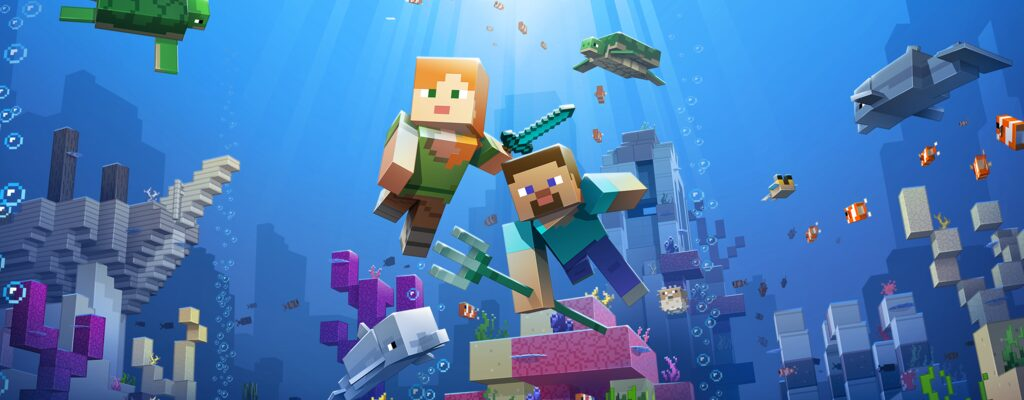
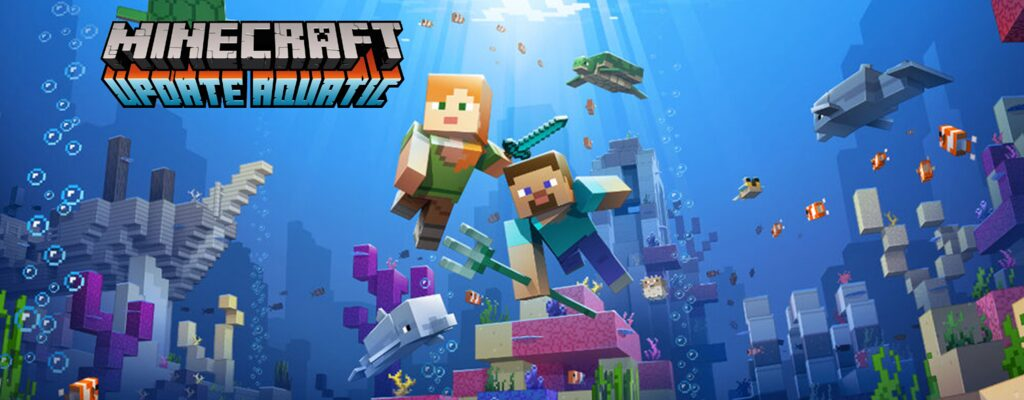
ui: đồng bộ key art 1.9–1.20 từ bộ slide, thẻ vẽ đúng tỉ lệ, trượt xuống có hoạt ảnh, nút phiên bản khối Minecraft
- 12 key art (1.9→1.20) thay bằng bộ chủ dự án cung cấp (Google Slides), chuẩn hoá 1024x400
  (2,56:1) với khung cắt chọn tay để giữ logo + nhân vật (neo giữa / neo trên); 1.10 và 1.15
  ghép logo rời lên ảnh nền; 1.12 ghép logo World of Color. CREDITS.md cập nhật nguồn.
- Thẻ dòng phiên bản trong hộp Tạo bản chơi vẽ ĐÚNG tỉ lệ 2,56:1 (trước 3,1:1 → cắt ~30 %
  chiều cao, mất logo). Bung thẻ trượt xuống với hoạt ảnh (Behavior on height + opacity),
  không nhảy phắt.
- Nút phiên bản con kiểu khối Minecraft như trang chủ: khối đá, chọn thành khối cỏ, viền tối,
  cạnh dưới dày, lún khi bấm.

765 test xanh, 0 cảnh báo QML.

Claude-Session: https://claude.ai/code/session_01LwQrjny8qCY8hQpX9dLVEW

diff --git a/src/nostalgia/ui/qml/CreateInstanceDialog.qml b/src/nostalgia/ui/qml/CreateInstanceDialog.qml
@@ -324,9 +324,12 @@ Item {
                         readonly property bool expanded: dialog.expandedMajor === modelData.major
                         readonly property var versions: expanded ? dialog.versionsOf(modelData.major) : []
                         width: ListView.view.width
-                        // Thẻ cao theo bề ngang để key art (2,56:1) không bị cắt quá nửa.
-                        readonly property int artHeight: Math.max(150, Math.min(210, Math.round(width / 3.1)))
-                        height: artHeight + (expanded ? chips.height + 12 : 0)
+                        // Thẻ vẽ ĐÚNG tỉ lệ key art 2,56:1 để không cắt mất logo hay nhân vật; các
+                        // phiên bản con trượt xuống bên dưới ảnh với hoạt ảnh, không nhảy phắt.
+                        readonly property int artHeight: Math.max(150, Math.min(300, Math.round(width / 2.56)))
+                        height: artHeight + (expanded ? chips.implicitHeight + 14 : 0)
+                        clip: true
+                        Behavior on height { NumberAnimation { duration: Theme.normal; easing.type: Easing.OutCubic } }
 
                         Rectangle {
                             id: art
@@ -368,24 +371,43 @@ Item {
                         }
                         Flow {
                             id: chips
-                            anchors { left: parent.left; right: parent.right; top: art.bottom; topMargin: 8 }
-                            spacing: 6
-                            visible: card.expanded
+                            anchors { left: parent.left; right: parent.right; top: art.bottom; topMargin: 10 }
+                            spacing: 8
+                            opacity: card.expanded ? 1 : 0
+                            enabled: card.expanded
+                            Behavior on opacity { NumberAnimation { duration: Theme.normal } }
                             Repeater {
                                 model: card.versions
-                                Rectangle {
+                                // Nút phiên bản kiểu khối Minecraft như trang chủ: khối đá, chọn thì thành khối cỏ.
+                                Item {
                                     id: versionCell
                                     readonly property bool selected: modelData.versionId === dialog.gameVersion
                                     readonly property bool supported: dialog.presetSupports(modelData.versionId)
-                                    width: Math.max(72, versionText.width + 22); height: 30; radius: 7
+                                    readonly property int edge: 3
+                                    width: Math.max(78, versionText.width + 26); height: 34
                                     opacity: supported ? 1 : 0.35
-                                    color: selected ? Theme.accentSoft : Theme.surfaceHigh
-                                    border.color: selected ? Theme.accent : Theme.border
-                                    Text { id: versionText; anchors.centerIn: parent; text: modelData.versionId
-                                           color: versionCell.selected ? Theme.accent : Theme.text
-                                           font.pixelSize: 12; font.family: "monospace" }
-                                    HoverHandler { cursorShape: versionCell.supported ? Qt.PointingHandCursor : Qt.ArrowCursor }
-                                    TapHandler { enabled: versionCell.supported; onTapped: dialog.pickGameVersion(modelData.versionId) }
+                                    Rectangle { anchors.fill: parent; color: "#1e1e1f" }
+                                    Rectangle {
+                                        anchors { left: parent.left; right: parent.right; bottom: parent.bottom; margins: 2 }
+                                        height: parent.height - 4
+                                        color: versionCell.selected ? "#1d4d13" : "#2e2a25"
+                                    }
+                                    Rectangle {
+                                        anchors { left: parent.left; right: parent.right; top: parent.top; margins: 2 }
+                                        anchors.topMargin: versionPress.pressed ? 4 : 2
+                                        height: parent.height - 4 - versionCell.edge + (versionPress.pressed ? 2 : 0)
+                                        color: versionCell.selected ? (versionHover.hovered ? "#4f9a36" : "#3c8527")
+                                                                    : (versionHover.hovered ? "#5a5247" : "#4a443c")
+                                        Behavior on color { ColorAnimation { duration: Theme.quick } }
+                                        Rectangle { anchors { left: parent.left; right: parent.right; top: parent.top }
+                                                    height: 2; color: versionCell.selected ? "#66ffffff" : "#33ffffff" }
+                                        Text { id: versionText; anchors.centerIn: parent; text: modelData.versionId
+                                               color: versionCell.selected ? "white" : "#e8dcc8"
+                                               font.pixelSize: 12; font.bold: true
+                                               style: Text.Raised; styleColor: "#40000000" }
+                                    }
+                                    HoverHandler { id: versionHover; cursorShape: versionCell.supported ? Qt.PointingHandCursor : Qt.ArrowCursor }
+                                    TapHandler { id: versionPress; enabled: versionCell.supported; onTapped: dialog.pickGameVersion(modelData.versionId) }
                                 }
                             }
                         }

diff --git a/src/nostalgia/ui/qml/assets/keyart/CREDITS.md b/src/nostalgia/ui/qml/assets/keyart/CREDITS.md
@@ -2,25 +2,27 @@
 
 Toàn bộ key art Minecraft là tài sản của Mojang Studios / Microsoft, dùng cho mục đích
 phi thương mại, minh hoạ trong launcher. Ảnh lấy qua kho file của minecraft.wiki
-(bản gốc do Mojang phát hành trên minecraft.net / Minecraft Live), sau đó resize
-về 1024x400 (cắt giữa, JPEG q82).
+(bản gốc do Mojang phát hành trên minecraft.net / Minecraft Live) hoặc từ bộ slide key art
+chủ dự án cung cấp (09/2026), sau đó resize về 1024x400 (JPEG q82). Khung cắt chọn tay để
+giữ logo và nhân vật (neo giữa hoặc neo trên); thẻ trong hộp Tạo bản chơi vẽ đúng tỉ lệ
+2,56:1 nên không cắt thêm.
 
 | File | Họ phiên bản | Nguồn gốc |
 |---|---|---|
 | 26.jpg | 26.x (key art 26.2, mới nhất có banner) | https://minecraft.wiki/images/26.2_banner.jpg |
 | 1.21.jpg | Tricky Trials | https://minecraft.wiki/images/1.21_banner.jpg |
-| 1.20.jpg | Trails & Tales | https://minecraft.wiki/images/1.20_banner.jpg |
-| 1.19.jpg | The Wild Update | https://minecraft.wiki/images/1.19_banner.jpg |
-| 1.18.jpg | Caves & Cliffs II | https://minecraft.wiki/images/Caves%26Cliffs2Java.jpg |
-| 1.17.jpg | Caves & Cliffs I | https://minecraft.wiki/images/Java_Edition_1.17.jpg |
-| 1.16.jpg | Nether Update | https://minecraft.wiki/images/NetherUpdateArtwork.png |
-| 1.15.jpg | Buzzy Bees | https://minecraft.wiki/images/BuzzyBeesJava.jpg |
-| 1.14.jpg | Village & Pillage | https://minecraft.wiki/images/Village_%26_Pillage_banner.png |
-| 1.13.jpg | Update Aquatic | https://minecraft.wiki/images/Update_Aquatic.png |
-| 1.12.jpg | World of Color | https://minecraft.wiki/images/World_of_Color_Update.png |
-| 1.11.jpg | Exploration Update (ảnh công bố chính thức, dạng screenshot) | https://minecraft.wiki/images/ExplorationUpdateJava.png |
-| 1.10.jpg | Frostburn (ảnh công bố chính thức, dạng screenshot) | https://minecraft.wiki/images/Frostburn_Update.png |
-| 1.9.jpg | Combat Update | https://minecraft.wiki/images/Combat_Update.png |
+| 1.20.jpg | Trails & Tales | Key art Mojang, từ bộ slide chủ dự án (09/2026); cắt 1024x400 neo trên, giữ logo |
+| 1.19.jpg | The Wild Update | Key art Mojang, từ bộ slide chủ dự án; cắt neo trên |
+| 1.18.jpg | Caves & Cliffs II | Key art Mojang, từ bộ slide chủ dự án; cắt neo trên |
+| 1.17.jpg | Caves & Cliffs I | Key art Mojang, từ bộ slide chủ dự án; cắt neo trên |
+| 1.16.jpg | Nether Update | Key art Mojang, từ bộ slide chủ dự án; cắt neo trên |
+| 1.15.jpg | Buzzy Bees | Key art Mojang (ảnh nền) + logo rời ghép lên trên, từ bộ slide chủ dự án |
+| 1.14.jpg | Village & Pillage | Key art Mojang, từ bộ slide chủ dự án; cắt giữa |
+| 1.13.jpg | Update Aquatic | Key art Mojang, từ bộ slide chủ dự án; cắt giữa |
+| 1.12.jpg | World of Color | Key art Mojang (ảnh nền) + logo rời ghép lên trên, từ bộ slide chủ dự án |
+| 1.11.jpg | Exploration Update | Key art Mojang (full artwork, không logo) — bộ slide dẫn nguồn minecraft-archive.fandom.com/wiki/1.11_-_The_Exploration_Update |
+| 1.10.jpg | Frostburn | Ảnh công bố chính thức (screenshot) + logo "The Frostburn Update" ghép góc trên trái, từ bộ slide chủ dự án |
+| 1.9.jpg | Combat Update | Key art Mojang, từ bộ slide chủ dự án; cắt giữa |
 | 1.8.jpg | Bountiful Update | https://minecraft.wiki/images/The_Bountiful_Update.png |
 | old.jpg | Mọi bản cũ hơn — key art "Minecraft: Java Edition" cổ điển | https://minecraft.wiki/images/MCJE_key_art.png |
 
